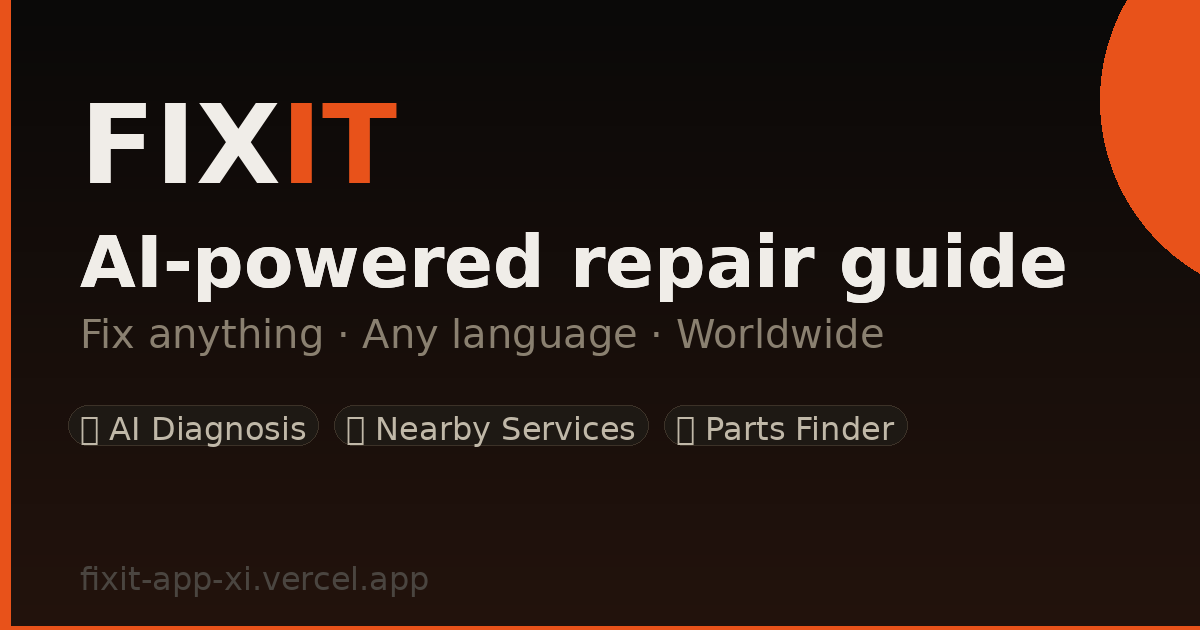
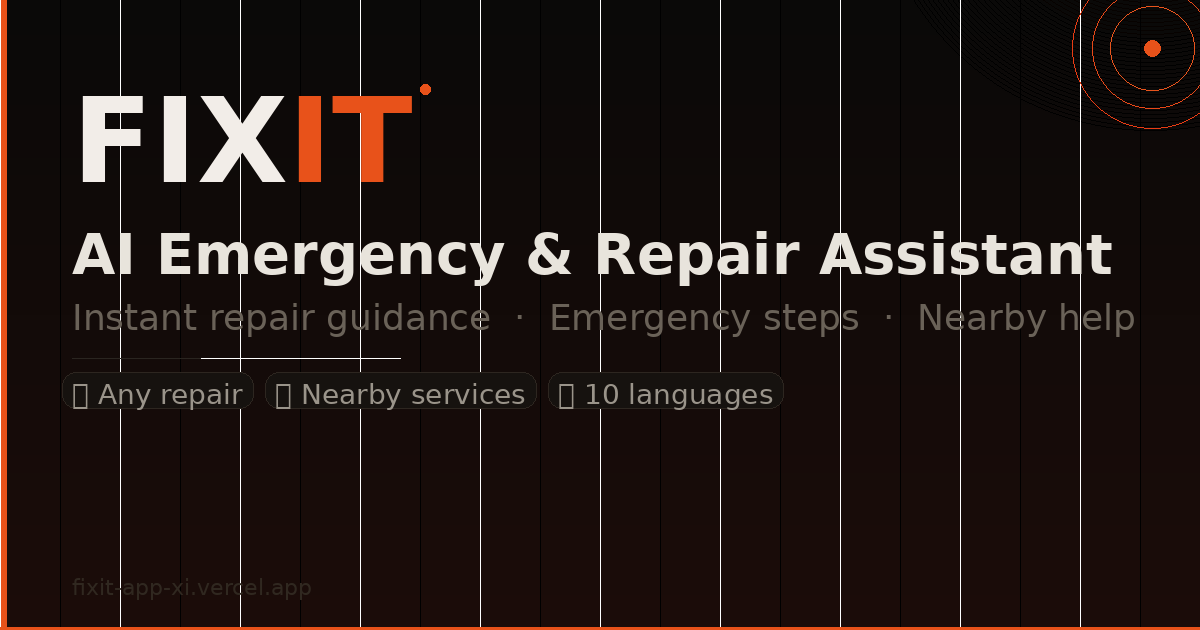
fix-nearby-history-and-og-branding

diff --git a/src/hooks/useNearby.js b/src/hooks/useNearby.js
@@ -63,7 +63,23 @@ export function useNearby() {
 
     try {
       const url = `/api/nearby?cat=${encodeURIComponent(cat)}&lat=${lat}&lng=${lng}`;
-      const res = await fetch(url);
+      // 6s client-side timeout: show Maps fallback fast if Overpass is cold/slow
+      // The server request continues; if it resolves later, we update silently.
+      const controller = new AbortController();
+      const fetchTimer = setTimeout(() => controller.abort(), 6000);
+      let res;
+      try {
+        res = await fetch(url, { signal: controller.signal });
+        clearTimeout(fetchTimer);
+      } catch (abortErr) {
+        clearTimeout(fetchTimer);
+        // Timed out on client side — show fallback immediately
+        if (thisReq !== reqId.current) return;
+        setFallback(true);
+        if (!cached) setError('empty'); // triggers Maps fallback card
+        setLoading(false);
+        return;
+      }
       if (!res.ok) throw new Error(`API HTTP ${res.status}`);
       const data = await res.json();
       if (thisReq !== reqId.current) return;

diff --git a/index.html b/index.html
@@ -3,15 +3,15 @@
 <head>
   <meta charset="UTF-8"/>
   <meta name="viewport" content="width=device-width,initial-scale=1,maximum-scale=1,user-scalable=no,viewport-fit=cover"/>
-  <title>FixIt — Fix Anything</title>
-  <meta name="description" content="AI-powered repair guide, emergency help, and nearby services worldwide. Fix anything in any language."/>
+  <title>FIXIT — AI Emergency &amp; Repair Assistant</title>
+  <meta name="description" content="Instant repair guidance, emergency help, nearby services, and AI-powered repair support in 10 languages."/>
   <meta name="theme-color" content="#E8521A"/>
   <meta name="apple-mobile-web-app-capable" content="yes"/>
   <meta name="apple-mobile-web-app-status-bar-style" content="black-translucent"/>
   <meta name="apple-mobile-web-app-title" content="FixIt"/>
   <!-- Open Graph (WhatsApp, Telegram, Messenger, iMessage, Facebook) -->
-  <meta property="og:title" content="FixIt — Fix Anything with AI"/>
-  <meta property="og:description" content="AI repair guide, emergency help &amp; nearby services in 10 languages. Fix anything yourself."/>
+  <meta property="og:title" content="FIXIT — AI Emergency &amp; Repair Assistant"/>
+  <meta property="og:description" content="Instant repair guidance, emergency help &amp; nearby services worldwide. Fix anything yourself."/>
   <meta property="og:type" content="website"/>
   <meta property="og:url" content="https://fixit-app-xi.vercel.app/"/>
   <meta property="og:image" content="https://fixit-app-xi.vercel.app/og-image.png"/>
@@ -21,7 +21,7 @@
   <meta property="og:site_name" content="FixIt"/>
   <!-- Twitter Card (X, iMessage link preview) -->
   <meta name="twitter:card" content="summary_large_image"/>
-  <meta name="twitter:title" content="FixIt — Fix Anything with AI"/>
+  <meta name="twitter:title" content="FIXIT — AI Emergency &amp; Repair Assistant"/>
   <meta name="twitter:description" content="AI repair guide &amp; nearby services in 10 languages."/>
   <meta name="twitter:image" content="https://fixit-app-xi.vercel.app/og-image.png"/>
   <meta name="twitter:image:alt" content="FixIt AI Repair Guide"/>

diff --git a/api/nearby.js b/api/nearby.js
@@ -16,8 +16,8 @@ const BBOX_NS = 0.03;
 const BBOX_EW = 0.05;
 
 // Tyres uses a larger bbox (≈10km radius) because tyre shops are sparse
-const TYRES_BBOX_NS = 0.09;
-const TYRES_BBOX_EW = 0.12;
+const TYRES_BBOX_NS = 0.05;  // reduced from 0.09 (20km) to 0.05 (11km) — fits 7s Overpass budget
+const TYRES_BBOX_EW = 0.07;  // proportional reduction
 
 // Name filter regex for Overpass — catches tyre shops tagged as generic car_repair
 // This is an Overpass regex, not JS regex — uses ERE syntax
@@ -120,7 +120,7 @@ function buildQuery(cat, latN, lngN) {
   };
 
   const lines = (parts[cat] || parts.garage).join(';\n  ');
-  return { query: `[out:json][timeout:25];\n(\n  ${lines};\n);\nout center tags;`, south, west, north, east };
+  return { query: `[out:json][timeout:10];\n(\n  ${lines};\n);\nout center tags;`, south, west, north, east };
 }
 
 // Server-side tyre keyword filter

diff --git a/src/App.jsx b/src/App.jsx
@@ -1021,7 +1021,7 @@ export default function App() {
           <div style={{fontSize:'1.5rem',fontWeight:900}}>FIX<span style={{color:C.o}}>IT</span></div>
           <div style={{display:'flex',alignItems:'center',gap:8}}>
             {lat && <div style={{fontSize:'0.7rem',color:C.g,background:'rgba(26,158,92,0.1)',border:'1px solid rgba(26,158,92,0.2)',borderRadius:100,padding:'4px 10px'}}>📍 {city||`${lat.toFixed(2)},${lng.toFixed(2)}`}</div>}
-            {history.length > 0 && <button onClick={()=>setShowHistory(true)} style={{background:C.c,border:`1px solid ${C.b}`,borderRadius:100,padding:'5px 10px',fontSize:'0.7rem',cursor:'pointer',color:C.m,fontFamily:'inherit'}}>🕐 {history.length}</button>}
+            {history.length > 0 && <button onClick={()=>setShowHistory(true)} style={{background:C.c,border:`1px solid ${C.b}`,borderRadius:100,padding:'5px 10px',fontSize:'0.7rem',cursor:'pointer',color:C.m,fontFamily:'inherit'}}>{lang==='de'?`🕐 ${history.length} Diagnosen`:`🕐 ${history.length} ${history.length===1?'repair':'repairs'}`}</button>}
             <button onClick={()=>setShowLP(true)} style={{background:C.c,border:`1px solid ${C.b}`,borderRadius:100,padding:'5px 12px',fontSize:'0.8rem',cursor:'pointer',color:C.m,fontFamily:'inherit'}}>{LANGS[lang]?.f} {lang.toUpperCase()}</button>
           </div>
         </div>
@@ -1051,12 +1051,12 @@ export default function App() {
           <div onClick={()=>setShowHistory(false)} style={{position:'fixed',inset:0,background:'rgba(0,0,0,0.85)',zIndex:100,display:'flex',alignItems:'flex-end'}}>
             <div onClick={e=>e.stopPropagation()} style={{background:'#151310',borderRadius:'26px 26px 0 0',width:'100%',maxHeight:'70vh',overflowY:'auto',padding:20}}>
               <div style={{fontSize:'1rem',fontWeight:800,marginBottom:16}}>🕐 {lang==='de'?'Verlauf':lang==='tr'?'Tamir Geçmişi':lang==='pl'?'Historia Napraw':lang==='mk'?'Историја':lang==='hr'?'Povijest':'Repair History'}</div>
-              {history.map(h=>(
+              {history.filter(h => h && h.problem && (h.diagnosis || h.confidence)).map(h=>(
                 <div key={h.id} style={{...s.card,marginBottom:8}}>
                   <div style={{fontSize:'0.82rem',fontWeight:700,marginBottom:4}}>{h.problem}</div>
                   <div style={{fontSize:'0.72rem',color:C.m,marginBottom:6}}>{h.diagnosis}</div>
                   <div style={{display:'flex',alignItems:'center',gap:8}}>
-                    <span style={{fontSize:'0.65rem',color:C.m}}>{new Date(h.date).toLocaleDateString()}</span>
+                    <span style={{fontSize:'0.65rem',color:C.m}}>{h.date && !isNaN(new Date(h.date)) ? new Date(h.date).toLocaleDateString() : (lang==='de'?'Kürzlich':lang==='tr'?'Yakın zamanda':lang==='pl'?'Ostatnio':'Recently')}</span>
                     {h.fixed===true && <span style={{fontSize:'0.65rem',color:C.g}}>{lang==='de'?'✅ Behoben':lang==='tr'?'✅ Çözüldü':lang==='pl'?'✅ Naprawiono':'✅ Fixed'}</span>}
                     {h.fixed===false && <span style={{fontSize:'0.65rem',color:C.r}}>{lang==='de'?'❌ Nicht behoben':lang==='tr'?'❌ Çözülmedi':lang==='pl'?'❌ Nie naprawiono':'❌ Not fixed'}</span>}
                     <button onClick={()=>{problemRef.current=h.problem;setCurFix('home');setShowHistory(false);goto('result');diagnose({problem:h.problem,category:'home',lang,countryName:cd.name});}} style={{marginLeft:'auto',background:C.o,border:'none',borderRadius:8,padding:'4px 10px',color:'#fff',fontSize:'0.65rem',fontWeight:700,cursor:'pointer',fontFamily:'inherit'}}>{lang==='de'?'Erneut':'Try again'}</button>